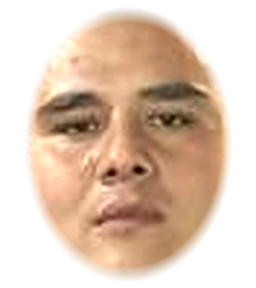
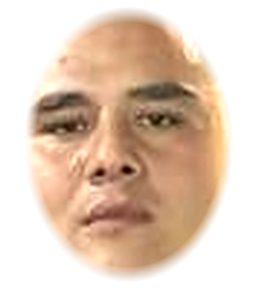
Birga Strike 3D: Qalqon, Burgut, Turon, Bo'ron — to'g'riga qaragan portretlar
- Personajlar nomi: Qalqon, Burgut, Turon, Bo'ron (eski "Burgut" → "Lochin")
- Portretlar to'g'ridan (frontal) render qilindi
- Yuzlar boshning markaziga to'g'rilandi (qirqish joylari)

Claude-Session: https://claude.ai/code/session_0158Rah9s7mZ8KwmZyMGiKBC

diff --git a/games.js b/games.js
@@ -5452,11 +5452,11 @@
   // personajlar — original taktik kiyimlar
   const OPS_C = [
     // Birga jamoasi: yuzi public/ops/faces/face{1..4}, karta portreti public/ops/portraits/p{1..4}.png
-    { id: 'alfa', face: 0, pt: 'p1.png', n: { uz: 'Alfa', ru: 'Альфа', en: 'Alpha' }, ar: 50, spd: 1, L: { skin: '#B98B6D', top: '#27304A', top2: '#1B2235', pants: '#27304A', pants2: '#1B2235', vest: '#1D1F24', boots: '#111214', gl: '#1A1F2B', head: 'helmet', hc: '#202227', mask: 'none', mc: '#111317' } },
-    { id: 'bravo', face: 1, pt: 'p2.png', n: { uz: 'Bravo', ru: 'Браво', en: 'Bravo' }, ar: 45, spd: 1.03, L: { skin: '#B78A6D', top: '#4B5320', top2: '#2F3A1E', pants: '#4B5320', pants2: '#2F3A1E', vest: '#2F3B1A', boots: '#1C1917', gl: '#2A2A20', head: 'helmet', hc: '#3F4A2A', mask: 'none', mc: '#111317' } },
-    { id: 'charli', face: 2, pt: 'p3.png', n: { uz: 'Charli', ru: 'Чарли', en: 'Charlie' }, ar: 40, spd: 1.05, L: { skin: '#B98B6D', top: '#A08A62', top2: '#7A6544', pants: '#A08A62', pants2: '#7A6544', vest: '#6B5532', boots: '#4A3520', gl: '#5A4A33', head: 'helmet', hc: '#8F7A55', mask: 'none', mc: '#111317' } },
-    { id: 'delta', face: 3, pt: 'p4.png', n: { uz: 'Delta', ru: 'Дельта', en: 'Delta' }, ar: 55, spd: 0.98, L: { skin: '#B98B6D', top: '#5B6270', top2: '#3A3F48', pants: '#5B6270', pants2: '#3A3F48', vest: '#1E2228', boots: '#101215', gl: '#16181C', head: 'helmet', hc: '#2A2E33', mask: 'none', mc: '#111317' } },
-    { id: 'burgut', n: { uz: 'Burgut', ru: 'Беркут', en: 'Eagle' }, ar: 50, spd: 1, L: { skin: '#C98A5B', top: '#4B5320', top2: '#2F3A16', pants: '#3F4A1F', pants2: '#2A3212', vest: '#1F2410', boots: '#1C1917', gl: '#111', head: 'helmet', hc: '#3F4A1F', mask: 'bala', mc: '#111317' } },
+    { id: 'alfa', face: 0, pt: 'p1.png', n: { uz: 'Qalqon', ru: 'Калкон', en: 'Qalqon' }, ar: 50, spd: 1, L: { skin: '#B98B6D', top: '#27304A', top2: '#1B2235', pants: '#27304A', pants2: '#1B2235', vest: '#1D1F24', boots: '#111214', gl: '#1A1F2B', head: 'helmet', hc: '#202227', mask: 'none', mc: '#111317' } },
+    { id: 'bravo', face: 1, pt: 'p2.png', n: { uz: 'Burgut', ru: 'Бургут', en: 'Burgut' }, ar: 45, spd: 1.03, L: { skin: '#B78A6D', top: '#4B5320', top2: '#2F3A1E', pants: '#4B5320', pants2: '#2F3A1E', vest: '#2F3B1A', boots: '#1C1917', gl: '#2A2A20', head: 'helmet', hc: '#3F4A2A', mask: 'none', mc: '#111317' } },
+    { id: 'charli', face: 2, pt: 'p3.png', n: { uz: 'Turon', ru: 'Турон', en: 'Turon' }, ar: 40, spd: 1.05, L: { skin: '#B98B6D', top: '#A08A62', top2: '#7A6544', pants: '#A08A62', pants2: '#7A6544', vest: '#6B5532', boots: '#4A3520', gl: '#5A4A33', head: 'helmet', hc: '#8F7A55', mask: 'none', mc: '#111317' } },
+    { id: 'delta', face: 3, pt: 'p4.png', n: { uz: 'Bo‘ron', ru: 'Бўрон', en: 'Bo‘ron' }, ar: 55, spd: 0.98, L: { skin: '#B98B6D', top: '#5B6270', top2: '#3A3F48', pants: '#5B6270', pants2: '#3A3F48', vest: '#1E2228', boots: '#101215', gl: '#16181C', head: 'helmet', hc: '#2A2E33', mask: 'none', mc: '#111317' } },
+    { id: 'burgut', n: { uz: 'Lochin', ru: 'Сокол', en: 'Falcon' }, ar: 50, spd: 1, L: { skin: '#C98A5B', top: '#4B5320', top2: '#2F3A16', pants: '#3F4A1F', pants2: '#2A3212', vest: '#1F2410', boots: '#1C1917', gl: '#111', head: 'helmet', hc: '#3F4A1F', mask: 'bala', mc: '#111317' } },
     { id: 'qum', n: { uz: 'Qum bo‘roni', ru: 'Самум', en: 'Sandstorm' }, ar: 40, spd: 1.04, L: { skin: '#B97A4F', top: '#C2A878', top2: '#8C7148', pants: '#B59A6A', pants2: '#7A6240', vest: '#6B5532', boots: '#4A3520', gl: '#5C4A33', head: 'cap', hc: '#8C7148', mask: 'scarf', mc: '#D6C39A' } },
     { id: 'shahar', n: { uz: 'Shahar', ru: 'Город', en: 'Urban' }, ar: 50, spd: 1, L: { skin: '#D7A27A', top: '#5B6270', top2: '#3A3F48', pants: '#4B5160', pants2: '#2D3139', vest: '#1E2228', boots: '#101215', gl: '#1E2228', head: 'helmet', hc: '#2D3139', mask: 'gas', mc: '#26292E' } },
     { id: 'qor', n: { uz: 'Qor qoploni', ru: 'Снежный барс', en: 'Snow Leopard' }, ar: 45, spd: 1.02, L: { skin: '#E0B08A', top: '#E5E7EB', top2: '#9CA3AF', pants: '#D1D5DB', pants2: '#8B949E', vest: '#6B7280', boots: '#374151', gl: '#F3F4F6', head: 'beanie', hc: '#F9FAFB', mask: 'goggles', mc: '#F3F4F6' } },

diff --git a/tools/ops/render-portraits.js b/tools/ops/render-portraits.js
@@ -21,9 +21,9 @@ const LOOKS = [
     for (let i = 0; i < 4; i++) {
       const sc = new T.Scene(), pm = new T.PMREMGenerator(rd); sc.environment = pm.fromEquirectangular(lib.sky).texture;
       sc.add(new T.HemisphereLight(0xfff1d6, 0x404650, 0.45)); const k = new T.DirectionalLight(0xfff0dd, 1.5); k.position.set(1.5, 2.5, 2); sc.add(k); const rim = new T.DirectionalLight(0x9fc4ff, 1.4); rim.position.set(-2, 1.5, -2); sc.add(rim);
-      const S = window.__ops.glbSoldier(lib, LOOKS[i], lib.FACE[i], 1.0), gm = lib.mkGun(0.55); S.gun.add(gm); S.g.rotation.y = Math.PI - 0.35; sc.add(S.g);
+      const S = window.__ops.glbSoldier(lib, LOOKS[i], lib.FACE[i], 1.0), gm = lib.mkGun(0.55); S.gun.add(gm); S.g.rotation.y = Math.PI; sc.add(S.g);
       for (let f = 0; f < 15; f++) S.tick({ x: 0, y: 0, dead: false, fire: false, mv: 0 }, 1 / 30);
-      const cam = new T.PerspectiveCamera(24, W / H, 0.05, 20); cam.position.set(0.08, 0.9, 1.3); cam.lookAt(0, 0.8, 0);
+      const cam = new T.PerspectiveCamera(24, W / H, 0.05, 20); cam.position.set(0, 0.9, 1.3); cam.lookAt(0, 0.8, 0);
       rd.clear(); rd.render(sc, cam); out.push(rd.domElement.toDataURL('image/png'));
     }
     return out;

diff --git a/tools/ops/make-faces.py b/tools/ops/make-faces.py
@@ -7,7 +7,7 @@ import numpy as np
 from PIL import Image, ImageFilter
 
 # (chap, tepa, o'ng, past) — qosh ustidan iyakkacha, quloqdan quloqqacha
-BOXES = [(50, 682, 148, 790), (254, 668, 347, 768), (461, 652, 549, 750), (744, 654, 842, 752)]
+BOXES = [(57, 682, 155, 790), (254, 668, 347, 768), (465, 652, 553, 750), (744, 654, 842, 752)]
 W, H = 256, 288
 SKIN = np.array([184, 138, 108], np.float32)  # maqsad: tabiiy bug'doyrang teri
 
